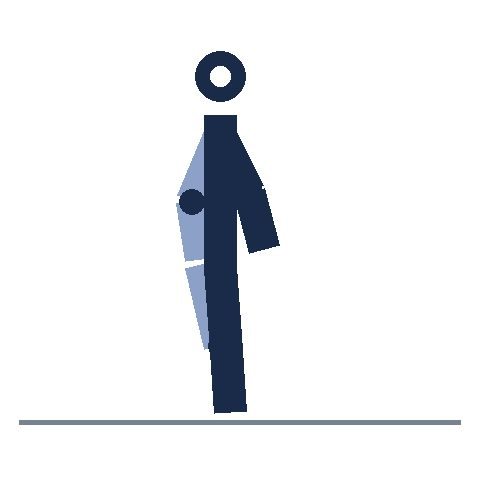
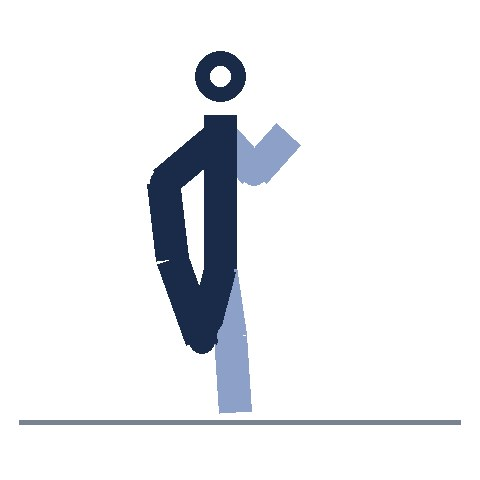
Import: import/p9m

Changed region(s): [[0.2812, 0.25, 0.5312, 0.875], [0.4688, 0.25, 0.625, 0.5312]]

diff --git a/tools/illustrations/gen.py b/tools/illustrations/gen.py
@@ -30,6 +30,8 @@ def draw_fig(dr, j, lw=7):
     if 'shoulderBar' in j:
         w2 = j['shoulderBar']
         far((j['shoulder'][0] - w2, j['shoulder'][1]), (j['shoulder'][0] + w2, j['shoulder'][1]), w=5)
+    if 'shoulderBarPts' in j:
+        far(j['shoulderBarPts'][0], j['shoulderBarPts'][1], w=5)
     # cabeza
     hx, hy = P(*j['head']); hr = 5.2 * SC
     dr.ellipse([hx - hr, hy - hr, hx + hr, hy + hr], outline=INK, width=int(3.2 * SC))
@@ -42,9 +44,16 @@ def draw_fig(dr, j, lw=7):
     # brazo y pierna cercanos
     seg(j['shoulder'], j['elbow']); seg(j['elbow'], j['hand'])
     seg(j['hip'], j['knee']); seg(j['knee'], j['foot'])
-    # articulaciones
-    for k in ('shoulder', 'elbow', 'hip', 'knee', 'elbow2', 'knee2'):
+    if 'heel' in j:
+        seg(j['foot'], j['heel'], w=5)
+    # articulaciones (las lejanas en tono claro)
+    for k in ('shoulder', 'elbow', 'hip', 'knee'):
         if k in j: dot(j[k])
+    def fdot(a, r=2.6):
+        x, y = P(*a); rr = r * SC
+        dr.ellipse([x - rr, y - rr, x + rr, y + rr], fill=FAR)
+    for k in ('elbow2', 'knee2'):
+        if k in j: fdot(j[k])
     dr.line([P(*j['neck']), P(*j['shoulder'])], fill=INK, width=int(5 * SC))  # cuello-hombro
 
 def draw_ground(dr):
@@ -74,6 +83,17 @@ def draw_equip(dr, items):
         elif k == 'band':  # banda: arco entre dos puntos
             _, a, b = it
             dr.line([P(*a), P(*b)], fill=(60, 130, 90), width=int(1.6 * SC))
+        elif k == 'arc':  # flecha curva de rotacion: (cx, cy, r, a0, a1)
+            _, (cx, cy), r, a0, a1 = it
+            c = (60, 130, 90)
+            dr.arc([P(cx - r, cy - r), P(cx + r, cy + r)], a0, a1, fill=c, width=int(1.8 * SC))
+            aend = math.radians(a1)
+            ex, ey = (cx + r * math.cos(aend)) * SC, (cy + r * math.sin(aend)) * SC
+            t = aend + math.pi / 2
+            s1 = 2.6 * SC
+            dr.polygon([(ex, ey),
+                        (ex - s1 * math.cos(t - 0.5), ey - s1 * math.sin(t - 0.5)),
+                        (ex - s1 * math.cos(t + 0.5), ey - s1 * math.sin(t + 0.5))], fill=c)
 
 POSES = {
   # flexiones con rodillas apoyadas (vista lateral, cabeza a la izquierda)
@@ -147,8 +167,8 @@ POSES = {
   ],
   # elevacion de gemelos (0 = pie plano; 1 = de puntillas)
   'elevacion_gemelos': [
-    dict(head=(46, 18), neck=(46, 26), shoulder=(46, 30), elbow=(50, 44), hand=(53, 56), hip=(46, 58), knee=(47, 72), foot=(46, 82)),
-    dict(head=(46, 12), neck=(46, 20), shoulder=(46, 24), elbow=(50, 38), hand=(53, 50), hip=(46, 52), knee=(49, 68), foot=(44, 76)),
+    dict(head=(46, 14), neck=(46, 22), shoulder=(46, 26), elbow=(50, 40), hand=(53, 52), hip=(46, 54), knee=(47, 68), foot=(46, 80), heel=(34, 82)),
+    dict(head=(46, 7), neck=(46, 15), shoulder=(46, 19), elbow=(50, 33), hand=(53, 45), hip=(46, 47), knee=(49, 61), foot=(46, 80), heel=(35, 69)),
   ],
   # estiramiento de isquiotibiales sentado
   'estiramiento_isquios': [
@@ -189,8 +209,8 @@ POSES = {
   ],
   # russian twist (sentado en V; 0 = manos a un lado; 1 = al otro)
   'russian_twist': [
-    dict(head=(44, 34), neck=(44, 42), shoulder=(44, 46), shoulderBar=7, elbow=(36, 56), hand=(28, 62), elbow2=(37, 59), hand2=(29, 65), hip=(48, 80), knee=(62, 70), foot=(72, 78), knee2=(58, 74), foot2=(70, 82)),
-    dict(head=(44, 34), neck=(44, 42), shoulder=(44, 46), shoulderBar=7, elbow=(54, 56), hand=(62, 62), elbow2=(53, 59), hand2=(61, 65), hip=(48, 80), knee=(62, 70), foot=(72, 78), knee2=(58, 74), foot2=(70, 82)),
+    dict(head=(45, 38), neck=(48, 46), shoulder=(49, 50), shoulderBarPts=((42, 53), (56, 48)), elbow=(40, 58), hand=(31, 61), elbow2=(43, 60), hand2=(32, 63), hip=(50, 78), knee=(38, 66), foot=(41, 79), knee2=(62, 66), foot2=(59, 79)),
+    dict(head=(55, 38), neck=(52, 46), shoulder=(51, 50), shoulderBarPts=((44, 48), (58, 53)), elbow=(60, 58), hand=(69, 61), elbow2=(57, 60), hand2=(68, 63), hip=(50, 78), knee=(38, 66), foot=(41, 79), knee2=(62, 66), foot2=(59, 79)),
   ],
   # dead bug (tumbado boca arriba; 0 = brazos arriba y piernas en mesa; 1 = brazo y pierna contrarios extendidos)
   'dead_bug': [
@@ -227,8 +247,8 @@ POSES = {
   ],
   # curl de biceps con banda (pisando la banda)
   'curl_banda': [
-    dict(head=(44, 16), neck=(44, 24), shoulder=(44, 28), elbow=(50, 42), hand=(52, 58), hip=(44, 56), knee=(45, 70), foot=(44, 86)),
-    dict(head=(44, 16), neck=(44, 24), shoulder=(44, 28), elbow=(50, 44), hand=(42, 26), hip=(44, 56), knee=(45, 70), foot=(44, 86)),
+    dict(head=(44, 16), neck=(44, 24), shoulder=(44, 28), elbow=(48, 46), hand=(51, 60), hip=(44, 56), knee=(45, 70), foot=(46, 86)),
+    dict(head=(44, 16), neck=(44, 24), shoulder=(44, 28), elbow=(50, 46), hand=(56, 26), hip=(44, 56), knee=(45, 70), foot=(46, 86)),
   ],
   # face pull con banda (anclaje a la altura de la cara)
   'face_pull_banda': [
@@ -303,8 +323,8 @@ POSES = {
   ],
   # hip thrust (espalda alta en el banco; 0 = cadera abajo; 1 = cadera arriba)
   'hip_thrust': [
-    dict(head=(24, 48), neck=(29, 52), shoulder=(33, 53), elbow=(38, 62), hand=(44, 66), hip=(50, 78), knee=(62, 74), foot=(64, 86)),
-    dict(head=(24, 46), neck=(29, 50), shoulder=(33, 51), elbow=(40, 56), hand=(48, 56), hip=(54, 53), knee=(64, 62), foot=(64, 86)),
+    dict(head=(21, 45), neck=(27, 44), shoulder=(33, 44), elbow=(40, 56), hand=(49, 62), hip=(52, 66), knee=(64, 60), foot=(66, 86), spineMid=(43, 55)),
+    dict(head=(21, 42), neck=(27, 43), shoulder=(33, 44), elbow=(44, 50), hand=(53, 49), hip=(58, 46), knee=(70, 50), foot=(70, 86), spineMid=(46, 45)),
   ],
   # abduccion de cadera tumbado de lado (0 = piernas juntas; 1 = pierna superior arriba)
   'abduccion_cadera_lateral': [
@@ -382,10 +402,10 @@ POSES = {
   # estiramiento de cuadriceps de pie (1 = pie al gluteo sujeto con la mano)
   'estiramiento_cuadriceps': [
     dict(head=(46, 16), neck=(46, 24), shoulder=(46, 28), elbow=(50, 42), hand=(53, 54),
-         hip=(46, 56), knee=(47, 70), foot=(48, 86)),
-    dict(head=(46, 16), neck=(46, 24), shoulder=(46, 28), elbow=(52, 40), hand=(55, 52),
-         elbow2=(40, 42), hand2=(42, 54),
-         hip=(46, 56), knee=(47, 70), foot=(48, 86), knee2=(46, 72), foot2=(42, 55)),
+         hip=(46, 56), knee=(47, 70), foot=(48, 86), knee2=(45, 70), foot2=(44, 86)),
+    dict(head=(46, 16), neck=(46, 24), shoulder=(46, 28), elbow=(34, 38), hand=(36, 54),
+         elbow2=(53, 36), hand2=(60, 28),
+         hip=(46, 56), knee=(42, 71), foot=(36, 54), knee2=(48, 70), foot2=(49, 86)),
   ],
   # estiramiento de pecho en la pared (0 = brazo apoyado; 1 = giro alejandose)
   'estiramiento_pecho': [
@@ -412,12 +432,12 @@ PROPS = {
   'sentadilla_bulgara': [[('bench', 66, 60, 14, 6)], [('bench', 66, 60, 14, 6)]],
   'buenos_dias': [[], []],
   'curl_femoral_suelo': [[], []],
-  'hip_thrust': [[('bench', 14, 46, 16, 8), ('kb', 50, 72)], [('bench', 14, 46, 16, 8), ('kb', 54, 47)]],
+  'hip_thrust': [[('bench', 26, 46, 16, 8), ('kb', 53, 63)], [('bench', 26, 46, 16, 8), ('kb', 59, 43)]],
   'abduccion_cadera_lateral': [[], []],
   'pajaros': [[('kb', 50, 76)], [('kb', 74, 38)]],
   'remo_banda': [[('band', (61, 72), (72, 82))], [('band', (38, 74), (72, 82))]],
   'jalon_banda': [[('band', (56, 12), (62, 4))], [('band', (44, 50), (62, 4))]],
-  'curl_banda': [[('band', (52, 58), (54, 86))], [('band', (42, 26), (54, 86))]],
+  'curl_banda': [[('band', (51, 60), (46, 88))], [('band', (56, 26), (46, 88))]],
   'face_pull_banda': [[('wall', 82), ('band', (82, 30), (62, 32))], [('wall', 82), ('band', (82, 30), (42, 28))]],
   'press_pecho_banda': [[('band', (52, 40), (38, 34))], [('band', (72, 36), (38, 34))]],
   'aperturas_banda': [[('band', (68, 44), (38, 34))], [('band', (64, 36), (38, 34))]],
@@ -426,7 +446,7 @@ PROPS = {
   'rodillas_altas': [[], []],
   'burpees': [[], []],
   'burpees_sin_salto': [[], []],
-  'russian_twist': [[], []],
+  'russian_twist': [[('arc', (50, 54), 24, 175, 235)], [('arc', (50, 54), 24, 305, 5)]],
   'dead_bug': [[], []],
   'bird_dog': [[], []],
   'fondos_banco': [[('bench', 20, 60, 16, 6)], [('bench', 20, 60, 16, 6)]],
